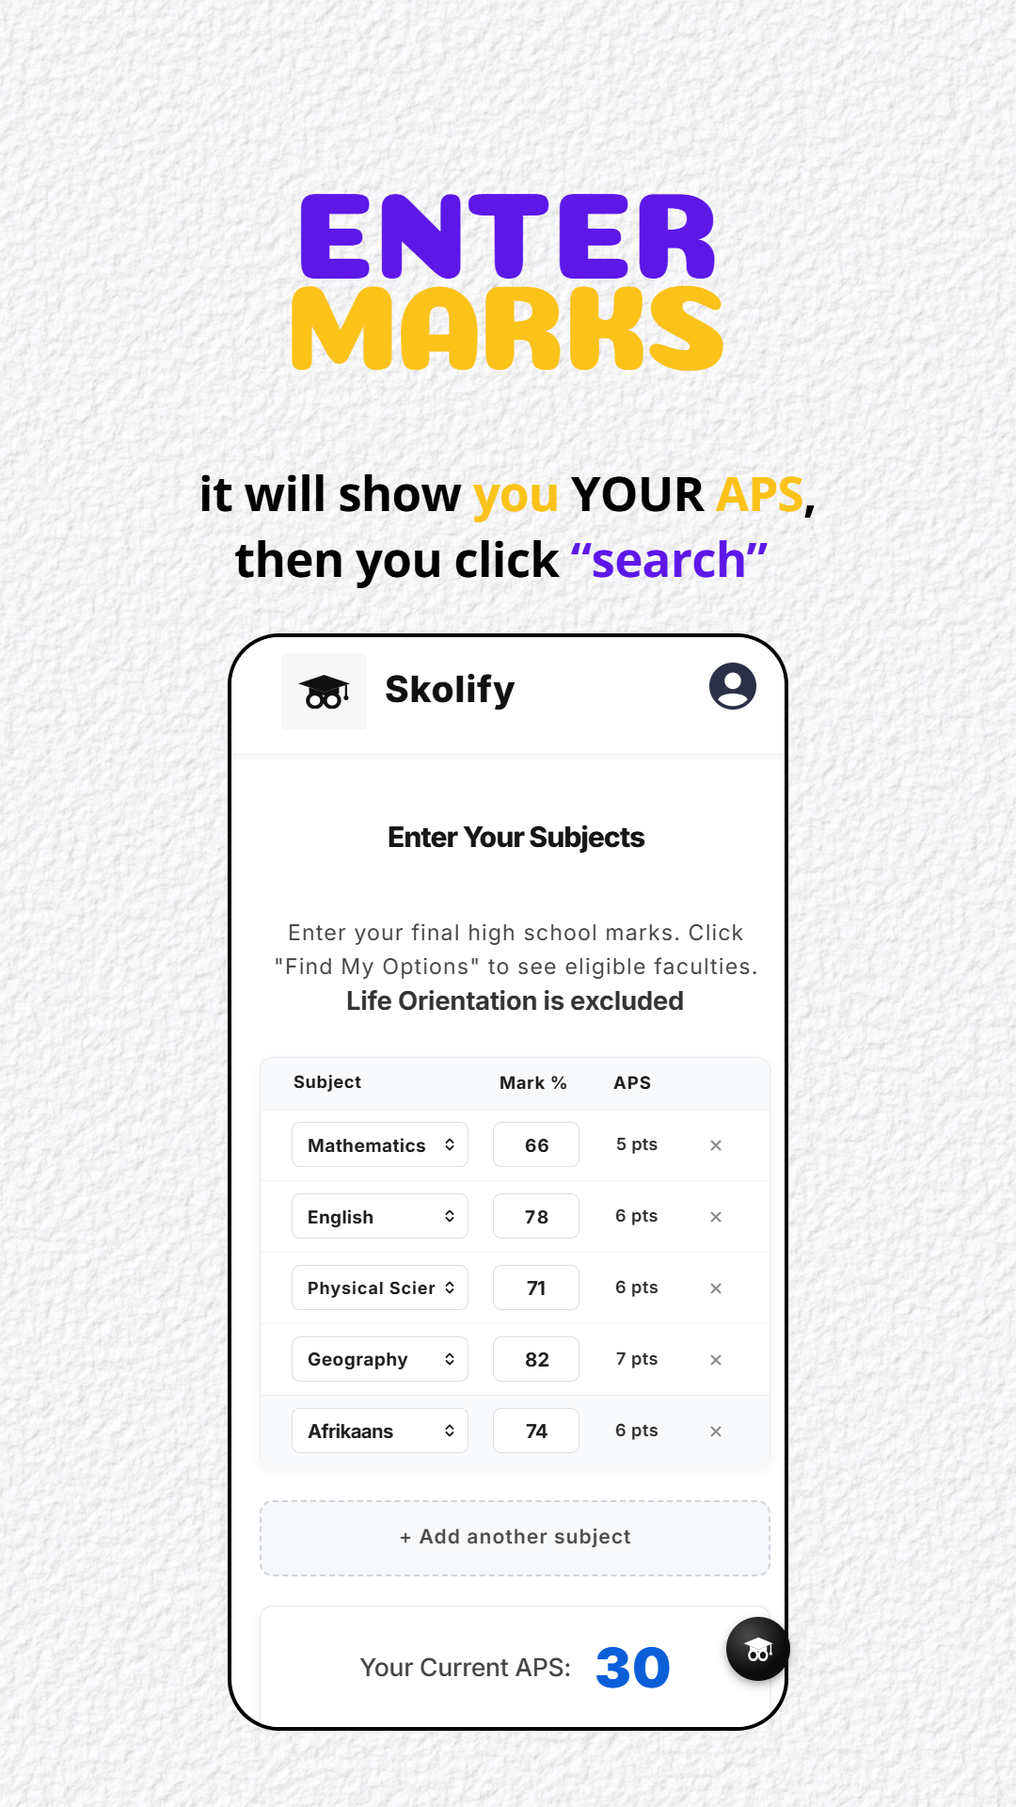
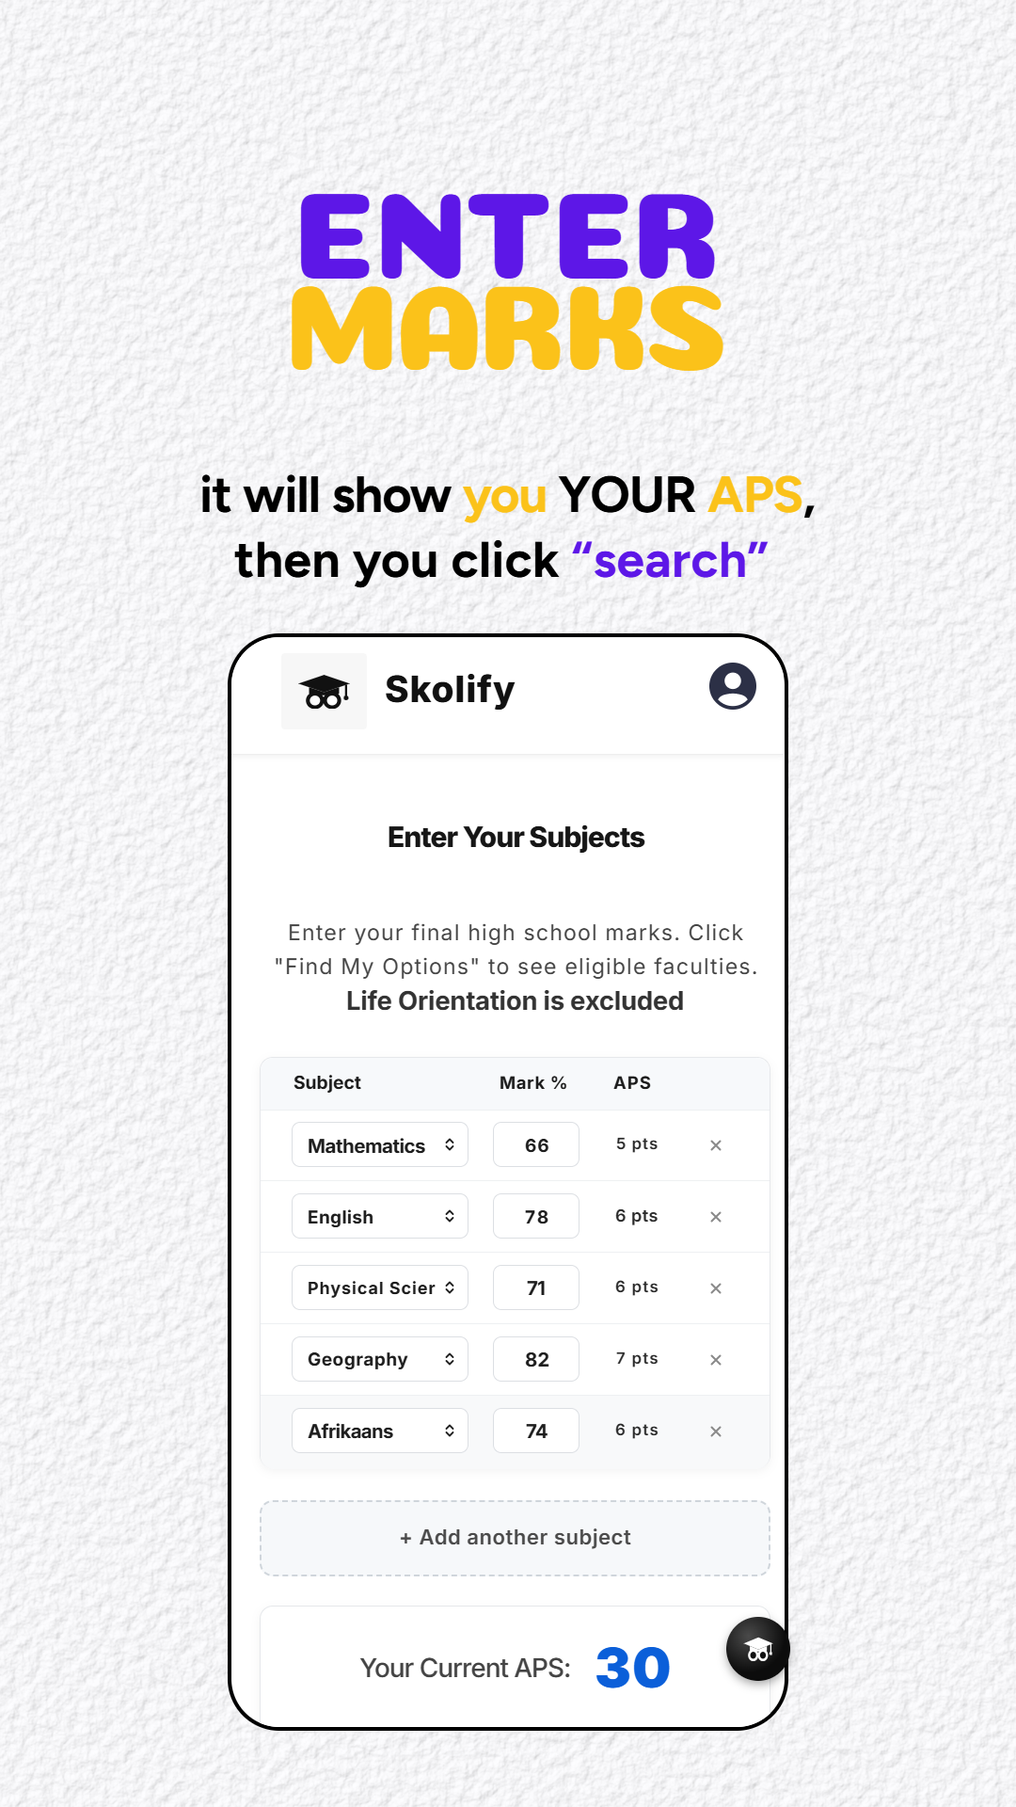
Slideshow: fixes from the one-shot test
- review.html: matchFont() ranks fonts by glyph-shape IoU against the
  reference (aspect ratio alone picked wrong fonts); show() draws a labelled
  slide-coordinate grid and fits the viewport; scan() finds frame/card
  edges along a line; rankImages() cover-crops instead of stretching.
- fontmatch.mjs flags fonts that never loaded (document.fonts.check() is
  true for unknown families).
- tiktok-capture.js saves posts/<name>/capture.json via save.html in one
  call; new-post.mjs reads it by default.
- generate.mjs --more adds takes as the next free .vN.
- Skolify kit: form controls, round buttons, ticks, close icons, sk.clip,
  and a fit mode for sk.t (move-only for frame-clipped text).
- fit: skip the second pass when the first lands within 1px.
- skolify-apply-8-unis body text now Figtree (better glyph match).
- CLAUDE.md recipe rewritten around these tools.

Changed region(s): [[0.2444, 0.25, 0.7944, 0.3125], [0.3667, 0.9062, 0.3972, 0.9375], [0.3056, 0.625, 0.3361, 0.6562]]

diff --git a/slideshow/review.html b/slideshow/review.html
@@ -154,11 +154,80 @@ S.pixel = (i, x, y) => { const s = S.slides[i - 1], k = (y * s.mine.width + x) *
 S.reload = () => open(document.getElementById('post').value);
 // review.show(slide, [x,y,w,h]?, zoom?, mode?) – single slide, cropped, for screenshots.
 // mode 'ref' shows the reference alone (reading content), 'side'/'onion'/'diff' compare.
-S.show = (i, crop = null, zoom = 0.3, mode = 'side') => {
+// grid: labelled lines every N slide px drawn on the canvases, so coordinates can be read straight
+// off a screenshot (no scale arithmetic). Zoom is clamped so the crop fits the viewport width.
+S.show = (i, crop = null, zoom = 0.3, mode = 'side', grid = 0) => {
+  const W0 = S.slides[i - 1].mine.width;
+  const cw = crop ? crop[2] : W0, panes = mode === 'side' ? 2 : 1;
+  zoom = Math.min(zoom, (innerWidth - 24) / (cw * panes));
   S.only = i; S.crop = crop; S.zoom = zoom; S.mode = mode === 'ref' ? 'side' : mode; draw();
   if (mode === 'ref') document.querySelectorAll('.pair canvas:nth-child(2)').forEach((c) => c.remove());
   document.querySelector('header').style.display = 'none'; document.querySelectorAll('.slide h3').forEach((h) => (h.style.display = 'none'));
-  scrollTo(0, 0); return { viewport: [innerWidth, innerHeight], scale: `1 slide px = ${zoom} css px` };
+  if (grid) document.querySelectorAll('.pair canvas').forEach((c) => {
+    const g = c.getContext('2d'), [x0, y0] = crop || [0, 0];
+    g.font = 'bold 11px monospace'; g.lineWidth = 1;
+    for (let X = Math.ceil(x0 / grid) * grid; (X - x0) * zoom < c.width; X += grid) { const sx = (X - x0) * zoom + 0.5; g.strokeStyle = X % (grid * 5) ? 'rgba(0,200,255,.45)' : 'rgba(255,0,0,.85)'; g.beginPath(); g.moveTo(sx, 0); g.lineTo(sx, c.height); g.stroke(); if (X % (grid * 5) === 0) { g.fillStyle = '#fff'; g.fillRect(sx + 1, 0, 30, 12); g.fillStyle = '#d00'; g.fillText(X, sx + 2, 10); } }
+    for (let Y = Math.ceil(y0 / grid) * grid; (Y - y0) * zoom < c.height; Y += grid) { const sy = (Y - y0) * zoom + 0.5; g.strokeStyle = Y % (grid * 5) ? 'rgba(0,200,255,.45)' : 'rgba(255,0,0,.85)'; g.beginPath(); g.moveTo(0, sy); g.lineTo(c.width, sy); g.stroke(); if (Y % (grid * 5) === 0) { g.fillStyle = '#fff'; g.fillRect(0, sy + 1, 34, 12); g.fillStyle = '#d00'; g.fillText(Y, 2, sy + 11); } }
+  });
+  scrollTo(0, 0); return { viewport: [innerWidth, innerHeight], zoom, note: grid ? `grid every ${grid}px (red, labelled, every ${grid * 5})` : 'pass grid (e.g. 20) to label slide coordinates' };
+};
+// review.scan(slide, 'row'|'col', at, [from, to], pred?, src?) -> runs of matching pixels along a
+// line: frame borders, card edges. Default predicate: dark (<70). For faint borders use e.g.
+// p => Math.max(...p) < 236. Returns [[start, end], …] in slide px.
+S.scan = (i, axis, at, [a0, a1], pred = (p) => Math.max(...p) < 70, src = 'ref') => {
+  const img = src === 'mine' ? S.slides[i - 1].mine : S.slides[i - 1].ref, out = []; let st = -1;
+  for (let k = a0; k <= a1; k++) {
+    const x = axis === 'row' ? k : at, y = axis === 'row' ? at : k, j = (y * img.width + x) * 4;
+    const v = k < a1 && pred([img.data[j], img.data[j + 1], img.data[j + 2]]);
+    if (v && st < 0) st = k; if (!v && st >= 0) { out.push([st, k - 1]); st = -1; }
+  }
+  return out;
+};
+// review.matchFont(slide, [x0,y0,x1,y1], text, ['Coiny', 'Sniglet:800', …], pred?) – compares glyph
+// SHAPES: each candidate is drawn into the measured ink box (height and width fitted like auto-fit)
+// and scored by IoU with the reference ink mask (higher is better). Use it to confirm
+// fontmatch.mjs's aspect-ratio shortlist. pred selects ink pixels (default: dark).
+S.matchFont = async (i, box, text, fonts, pred = (p) => Math.max(...p) < 110) => {
+  const ref = S.slides[i - 1].ref, [x0, y0, x1, y1] = box, w = x1 - x0 + 1, h = y1 - y0 + 1, pad = 6;
+  const fam = (f) => f.split(':')[0], wt = (f) => f.split(':')[1] || '400';
+  const fams = [...new Set(fonts.map(fam))];
+  for (const u of ['https://fonts.googleapis.com/css2?' + fams.map((f) => 'family=' + f.replace(/ /g, '+') + ':wght@100..900').join('&') + '&display=block',
+                   'https://fonts.googleapis.com/css2?' + fams.map((f) => 'family=' + f.replace(/ /g, '+')).join('&') + '&display=block']) {
+    if (!document.querySelector(`link[href="${u}"]`)) { const l = document.createElement('link'); l.rel = 'stylesheet'; l.href = u; document.head.appendChild(l); }
+  }
+  await new Promise((r) => setTimeout(r, 1500));
+  await Promise.all(fonts.map((f) => document.fonts.load(`${wt(f)} 40px '${fam(f)}'`).catch(() => null)));
+  const W = w + pad * 2, H = h + pad * 2;
+  const refMask = new Uint8Array(W * H);
+  for (let y = 0; y < H; y++) for (let x = 0; x < W; x++) {
+    const X = x0 - pad + x, Y = y0 - pad + y; if (X < 0 || Y < 0 || X >= ref.width || Y >= ref.height) continue;
+    const k = (Y * ref.width + X) * 4; refMask[y * W + x] = pred([ref.data[k], ref.data[k + 1], ref.data[k + 2]]) ? 1 : 0;
+  }
+  const c = new OffscreenCanvas(Math.max(600, W * 3), Math.max(300, H * 3)), g = c.getContext('2d', { willReadFrequently: true });
+  const inkOf = (font, size, ls) => {
+    g.clearRect(0, 0, c.width, c.height); g.font = font.replace('SIZE', size + 'px'); g.letterSpacing = ls + 'px'; g.fillStyle = '#000';
+    g.fillText(text, 20, c.height * 0.7);
+    const d = g.getImageData(0, 0, c.width, c.height).data; let a = 1e9, b = 1e9, cc = -1, dd = -1;
+    for (let y = 0; y < c.height; y++) for (let x = 0; x < c.width; x++) if (d[(y * c.width + x) * 4 + 3] > 110) { if (x < a) a = x; if (y < b) b = y; if (x > cc) cc = x; if (y > dd) dd = y; }
+    return { d, box: [a, b, cc, dd] };
+  };
+  const rows = [];
+  for (const f of fonts) {
+    const loaded = [...document.fonts].some((ff) => ff.family.replace(/["']/g, '') === fam(f) && ff.status === 'loaded');
+    if (!loaded) { rows.push([-1, `${f} (not on Google Fonts / not loaded)`]); continue; }
+    const font = `${wt(f)} SIZE '${fam(f)}'`;
+    let size = Math.min(200, h * 1.4), ls = 0, r = inkOf(font, size, ls);
+    size *= h / (r.box[3] - r.box[1] + 1); r = inkOf(font, size, ls);
+    ls = (w - (r.box[2] - r.box[0] + 1)) / Math.max(1, text.length - 1); r = inkOf(font, size, ls);
+    let inter = 0, uni = 0;
+    for (let y = 0; y < H; y++) for (let x = 0; x < W; x++) {
+      const sx = r.box[0] + Math.round(((x - pad) * (r.box[2] - r.box[0] + 1)) / w), sy = r.box[1] + Math.round(((y - pad) * (r.box[3] - r.box[1] + 1)) / h);
+      const m = sx >= 0 && sy >= 0 && sx < c.width && sy < c.height && r.d[(sy * c.width + sx) * 4 + 3] > 110 ? 1 : 0, rr = refMask[y * W + x];
+      if (m && rr) inter++; if (m || rr) uni++;
+    }
+    rows.push([inter / Math.max(1, uni), `${f}  (size ${size.toFixed(1)}, spacing ${ls.toFixed(2)})`]);
+  }
+  return rows.sort((a, b) => b[0] - a[0]).map(([v, t]) => `${v < 0 ? '  -  ' : v.toFixed(3)}  ${t}`).join('\n');
 };
 // review.rankImages(slide, urls) – rank candidate full-slide renders (e.g. one per generated photo
 // variant) by composition distance to the reference: mean colour difference of 24px blocks, so
@@ -167,7 +236,11 @@ S.rankImages = async (i, urls) => {
   const ref = S.slides[i - 1].ref, out = [];
   for (const u of urls) {
     const im = await load(u + (u.includes('?') ? '&' : '?') + Date.now());
-    const d = pixels(im, ref.width, ref.height).data; let s = 0, n = 0;
+    // cover-crop (centred) instead of stretching, so a raw 2:3 asset is judged as it will render
+    const cc = new OffscreenCanvas(ref.width, ref.height), cg = cc.getContext('2d');
+    const k = Math.max(ref.width / im.naturalWidth, ref.height / im.naturalHeight);
+    cg.drawImage(im, (ref.width - im.naturalWidth * k) / 2, (ref.height - im.naturalHeight * k) / 2, im.naturalWidth * k, im.naturalHeight * k);
+    const d = cg.getImageData(0, 0, ref.width, ref.height).data; let s = 0, n = 0;
     for (let by = 0; by < ref.height; by += 24) for (let bx = 0; bx < ref.width; bx += 24) {
       const a = [0, 0, 0], b = [0, 0, 0];
       for (let y = by; y < Math.min(by + 24, ref.height); y += 4) for (let x = bx; x < Math.min(bx + 24, ref.width); x += 4) { const k = (y * ref.width + x) * 4; for (let j = 0; j < 3; j++) { a[j] += d[k + j]; b[j] += ref.data[k + j]; } }

diff --git a/slideshow/shared/skolify/kit.html b/slideshow/shared/skolify/kit.html
@@ -20,6 +20,22 @@
     // floating black chat bubble with the logo
     chat: (cx, cy, r) => `<div class="sk-chat" style="left:${cx - r}px;top:${cy - r}px;width:${r * 2}px;height:${r * 2}px">${sk.logo(r * 0.95, r * 0.76, '#fff', '#111')}</div>`,
     // text positioned by its reference ink box (auto-fit does the sizing)
-    t: (box, html, style = '', label) => `<div class="ska" data-fit="${box.join(',')}"${label ? ` data-fit-label="${label}"` : ''} style="left:${box[0]}px;top:${box[1]}px;white-space:nowrap;line-height:1;${style}">${html}</div>`,
+    // mode: 'text' (default) fits size+spacing+position; 'move' only positions (use for text clipped by
+    // a phone frame, whose measured box is clipped too — give it an explicit font size); null = no fit
+    t: (box, html, style = '', label, mode = 'text') => `<div class="ska"${mode ? ` data-fit="${box.join(',')}"${mode !== 'text' ? ` data-fit-mode="${mode}"` : ''}` : ''}${label ? ` data-fit-label="${label}"` : ''} style="left:${box[0]}px;top:${box[1]}px;white-space:nowrap;line-height:1;${style}">${html}</div>`,
+    // form controls (slide coordinates, box = outer rect [x0,y0,x1,y1])
+    box: (b, style = '') => `<div class="ska" style="left:${b[0]}px;top:${b[1]}px;width:${b[2] - b[0]}px;height:${b[3] - b[1]}px;${style}"></div>`,
+    input: (b, radius = 9) => sk.box(b, `background:#fff;border:1.5px solid #dcdfe3;border-radius:${radius}px`),
+    select: (b, radius = 9) => sk.input(b, radius) + `<svg class="ska" style="left:${b[2] - 26}px;top:${(b[1] + b[3]) / 2 - 8}px" width="12" height="16" viewBox="0 0 12 16"><path d="M2.5 6 L6 2.5 L9.5 6 M2.5 10 L6 13.5 L9.5 10" stroke="#222" stroke-width="1.8" fill="none" stroke-linecap="round" stroke-linejoin="round"/></svg>`,
+    pill: (b, bg = '#eef1f5') => sk.box(b, `background:${bg};border-radius:${(b[3] - b[1]) / 2}px`),
+    card: (b, radius = 14, style = '') => sk.box(b, `background:#fff;border:1.5px solid #e6e8eb;border-radius:${radius}px;box-shadow:0 3px 10px rgba(0,0,0,.05);${style}`),
+    badge: (b, bg = '#1265e0', radius = 7) => sk.box(b, `background:${bg};border-radius:${radius}px`),
+    // round arrow/nav button: dir 'left'|'right'; dark=true for the filled black style
+    roundBtn: (cx, cy, r, dir = 'right', dark = true) => `<div class="ska" style="left:${cx - r}px;top:${cy - r}px;width:${2 * r}px;height:${2 * r}px;border-radius:50%;background:${dark ? '#151515' : '#c9c9c9'};display:flex;align-items:center;justify-content:center"><svg width="${r * 0.6}" height="${r * 0.6}" viewBox="0 0 14 14"><path d="${dir === 'left' ? 'M9 2 L4 7 L9 12' : 'M5 2 L10 7 L5 12'}" stroke="#fff" stroke-width="2.4" fill="none" stroke-linecap="round" stroke-linejoin="round"/></svg></div>`,
+    closeX: (cx, cy, size = 12, color = '#8a8a8a') => `<svg class="ska" style="left:${cx - size / 2}px;top:${cy - size / 2}px" width="${size}" height="${size}" viewBox="0 0 12 12"><path d="M1.5 1.5 L10.5 10.5 M10.5 1.5 L1.5 10.5" stroke="${color}" stroke-width="2" stroke-linecap="round"/></svg>`,
+    tick: (cx, cy, r, bg = '#1b78e6') => `<div class="ska" style="left:${cx - r}px;top:${cy - r}px;width:${2 * r}px;height:${2 * r}px;border-radius:50%;background:${bg};display:flex;align-items:center;justify-content:center"><svg width="${r * 1.1}" height="${r * 1.1}" viewBox="0 0 30 30"><path d="M8 15.5 L13 20.5 L22 10.5" stroke="#fff" stroke-width="3.4" fill="none" stroke-linecap="round" stroke-linejoin="round"/></svg></div>`,
+    // full-slide overlay wrapper for things that sit on top of / outside the phone frame (floating
+    // cards, carousel arrows, chat bubble): use as a slide-level {"type":"html"} element at 0,0 1080x1920
+    clip: (rect, radius, inner) => `<div class="ska" style="left:0;top:0;width:1080px;height:1920px;clip-path:inset(${rect[1]}px ${1080 - rect[2]}px ${1920 - rect[3]}px ${rect[0]}px round ${radius}px)">${inner}</div>`,
   };
 </script>

diff --git a/slideshow/tools/tiktok-capture.js b/slideshow/tools/tiktok-capture.js
@@ -1,9 +1,17 @@
-// Paste/run in a browser tab showing a TikTok photo post (e.g. the in-app browser's
-// javascript tool). Returns JSON for `node new-post.mjs <name> <capture.json>`.
-// It only reads what the page already shows; it does not call TikTok APIs.
+// Run in a browser tab showing a TikTok photo post (e.g. the in-app browser's javascript tool),
+// after setting the post name on the first line. It reads only what the page already shows (no
+// TikTok API calls), then hands the JSON to the local review server: TikTok's CSP blocks fetches to
+// localhost but not navigation, so it navigates to save.html, which writes
+// slideshow/posts/<name>/capture.json and returns to the post. Then: node new-post.mjs <name>
+// (Set NAME to null to just return the JSON string instead.)
+const NAME = 'my-post';
 (() => {
   const slides = [...new Set([...document.querySelectorAll('img')].map((i) => i.src).filter((s) => s.includes('photomode')))];
   const desc = document.querySelector('[data-e2e="browse-video-desc"], [data-e2e="video-desc"]')?.innerText?.replace(/\s*\n\s*/g, ' ').trim() || '';
   const music = document.querySelector('[data-e2e="browse-music"], [data-e2e="video-music"]')?.innerText?.trim() || '';
-  return JSON.stringify({ source: location.href.split('?')[0], title: document.title.replace(/ \| TikTok$/, ''), caption: desc, music, slides }, null, 2);
+  const json = JSON.stringify({ source: location.href.split('?')[0], title: document.title.replace(/ \| TikTok$/, ''), caption: desc, music, slides });
+  if (!slides.length) return 'no photo-mode slides found yet: wait for the post to load (or scroll the carousel) and run again';
+  if (!NAME) return json;
+  location.href = `http://localhost:5179/save.html#file=${encodeURIComponent(`posts/${NAME}/capture.json`)}&back=${encodeURIComponent(location.href)}&data=${encodeURIComponent(json)}`;
+  return `saving ${slides.length} slides to slideshow/posts/${NAME}/capture.json`;
 })();

diff --git a/slideshow/CLAUDE.md b/slideshow/CLAUDE.md
@@ -4,45 +4,51 @@ Read README.md first. Deliverable: `posts/<name>/out/NN-*.png` (1080×1920), one
 
 ## One-shot recipe (TikTok photo post URL → exact replica)
 
-1. **Capture** (built-in browser). Open the post URL, wait for it to load, then run the contents of
-   `tools/tiktok-capture.js` with the browser javascript tool. Save the JSON it returns to a scratch
-   file and run `node new-post.mjs <name> <file>`. Headless Chrome gets TikTok's slider CAPTCHA —
-   never automate around it; capture through the browser pane only.
-2. **Review server.** Start the `slideshow-review` launch config (port 5179) and open
-   `http://localhost:5179/review.html?post=<name>`. The CDN images load with CORS, so the page can
-   measure the originals without saving them. Console API (all on `window.review`):
-   - `show(n, [x,y,w,h], zoom, 'ref')` – crop of reference slide n for a screenshot (read content).
+1. **Review server.** Start the `slideshow-review` launch config (port 5179). It serves the review
+   page, the pipelines, and `save.html` (writes captured JSON to disk).
+2. **Capture** (built-in browser). Open the post, wait for the carousel to load, then run the
+   contents of `tools/tiktok-capture.js` with the javascript tool after setting `NAME` on its first
+   line. It saves `posts/<NAME>/capture.json` by navigating to save.html and back (TikTok's CSP
+   blocks direct requests to localhost). Then `node new-post.mjs <NAME>`. Never automate around
+   TikTok's slider CAPTCHA (headless Chrome gets one); capture only through the browser pane.
+3. **Read the references** at `http://localhost:5179/review.html?post=<name>` — it works before
+   anything is rendered. Console API (`window.review`):
+   - `show(n, [x,y,w,h], zoom, 'ref', 20)` – reference crop with a labelled grid in slide px (read
+     coordinates straight off the screenshot; zoom auto-fits the viewport).
    - `layout(n, region, {ink, gapX, gapY})` – every text line/blob: `[x0,y0,x1,y1] w×h colours`.
-     Use colour predicates as `ink` to isolate e.g. purple titles `p=>p[2]>150&&p[1]<110&&p[2]-p[1]>80`,
-     yellow `p=>p[0]>200&&p[1]>140&&p[2]<120`, dark text `p=>Math.min(...p)<120`. Use small `gapX`
-     (6–12) when words touch other ink (dropdown chevrons, icons).
-   - `measure(n, pred, region)`, `measureAll([...])`, `pixel(n,x,y)`, `stats(n,[x,y,w,h])`, `scores()`.
-3. **Fonts.** Feed measured `[text, inkW, inkH]` samples to `node fontmatch.mjs … --set display` /
-   `--set text`; aspect ties between body fonts are common, so confirm the top 3–5 with a specimen
-   (`tools/shot.mjs`) against a zoomed reference crop (single- vs double-storey g/a, t, y).
-   Known: Skolify carousels use Coiny (bubble titles), Rammetto One (yellow-on-black badges),
-   Open Sans 700 (captions), TikTok Sans 600 (TikTok text), Inter (app UI).
-4. **Backgrounds.** `review.stats` on a plain patch; tune `paper`/`crumpled` until mean is within
-   ~3 and std-dev within ~1.
-5. **Author** `post.json`. Every text line is its own element with `fit` = its measured ink box —
-   do not hand-tune sizes. App screens: reuse `@shared/skolify/*` when the screen already exists
-   (`welcome.html` with `screenWidth: 560`; a different crop is usually a uniform scale), otherwise
-   write a fragment in slide coordinates (`"slideCoords": true`) using `sk.header/sk.t/sk.chat` from
-   `@shared/skolify/kit.html`, positioning boxes from `layout` dumps and frame/border scans
-   (scan a row/column for dark border pixels to get exact card and frame edges).
-6. **Photos** that cannot be rebuilt: add a `generate` job whose prompt states the subject, wardrobe,
-   props, setting **and composition as percentages of the frame** (where the head, hands and key
-   props sit), run `node generate.mjs posts/<name>`, pick the variant closest to the reference
-   layout: `node render.mjs posts/<name> --only N --variants`, then in the review page
-   `await review.rankImages(N, [urls of out/candidates/*.png])` (lowest score wins); rename the winner
-   to the job's `out` file and delete the rest. Fine-tune with `photo.scale`/`offset`. Prompts must
-   not ask for real institutions' crests or names; describe a generic emblem instead.
-   Decorative art that isn't a photo (map watermarks, stickers) can also be generated with
+     Colour predicates as `ink`, e.g. purple `p=>p[2]>150&&p[1]<110&&p[2]-p[1]>80`, yellow
+     `p=>p[0]>200&&p[1]>140&&p[2]<120`, dark `p=>Math.min(...p)<120`. Small `gapX` (6–12) when
+     words touch other ink (dropdown chevrons, icons) — a merged box gets stretched by auto-fit.
+   - `scan(n, 'row'|'col', at, [from,to], pred?)` – runs along a line: phone frames, card edges;
+     faint borders: `p => Math.max(...p) < 236`.
+   - `measure`, `measureAll`, `pixel`, `stats(n,[x,y,w,h])` (background tuning), `scores()`.
+4. **Fonts.** Shortlist with `node fontmatch.mjs '[["TEXT",inkW,inkH],…]' --set display|text`, then
+   decide by glyph shape: `await review.matchFont(n, inkBox, 'TEXT', [candidates], ink)` (IoU,
+   higher wins). Known for Skolify carousels: Coiny (bubble titles), Figtree 700/400 (captions and
+   body; the source is likely Canva Sans, which isn't on Google Fonts), Rammetto One (yellow-on-black
+   badges), Unbounded 900 (wide SKOLIFY wordmark), TikTok Sans 600 (TikTok captions), Inter (app UI).
+5. **Backgrounds.** `review.stats` on a plain patch; tune `paper`/`crumpled` until the mean is
+   within ~3 and the std-dev within ~1.
+6. **Author** `post.json`: every text line its own element with `fit` = its measured ink box; do not
+   hand-tune sizes. App screens: reuse `@shared/skolify/*` (`welcome.html` with `screenWidth: 560`;
+   other crops are usually a uniform scale — check one known box, e.g. the button, scales the same),
+   otherwise write a fragment in slide coordinates (`"slideCoords": true`) with
+   `@shared/skolify/kit.html`: `sk.header`, `sk.t(box, html, style, label, mode)`, `sk.input`,
+   `sk.select`, `sk.pill`, `sk.card`, `sk.badge`, `sk.roundBtn`, `sk.closeX`, `sk.tick`, `sk.chat`.
+   Text clipped by the phone frame: `sk.t(..., 'move')` with an explicit font size (its measured box
+   is clipped too, so size-fitting would be wrong). Things on top of or outside the phone (floating
+   cards, carousel arrows, chat bubble): a slide-level `{"type":"html","x":0,"y":0,"w":1080,"h":1920}`
+   element; clip a group to a rounded panel with `sk.clip(rect, radius, html)`.
+7. **Photos** that cannot be rebuilt: a `generate` job whose prompt states subject, wardrobe, props,
+   setting and **composition as percentages of the frame**; `node generate.mjs posts/<name>`
+   (`--more --only id` adds takes without overwriting). Pick: `node render.mjs posts/<name> --only N
+   --variants`, then `await review.rankImages(N, [urls of out/candidates/*.png])` (lowest wins);
+   rename the winner to the job's `out`, delete the rest; fine-tune with `photo.scale`/`offset`. No
+   real institutions' crests or names in prompts. Decorative art (map watermarks, stickers):
    `"background": "transparent"`.
-7. **Render & verify.** `node render.mjs posts/<name>`, reload the review page, read `scores()` and
-   the fit warnings. Targets: non-photo slides ≥95% similarity, every fit ≤2px, no warnings. Then
-   look at each slide side by side (`show(n, null, 0.3)`) for missing/extra elements, wrong colours
-   or shapes, and fix only those.
+8. **Render & verify.** `node render.mjs posts/<name>` (~10s/slide), reload the review page, read
+   `scores()` and the fit warnings. Targets: non-photo slides ≥95%, every fit ≤2px, no warnings.
+   Then `show(n, null, 0.3)` side by side for missing/extra elements, colours, shapes.
 
 ## Rules
 
